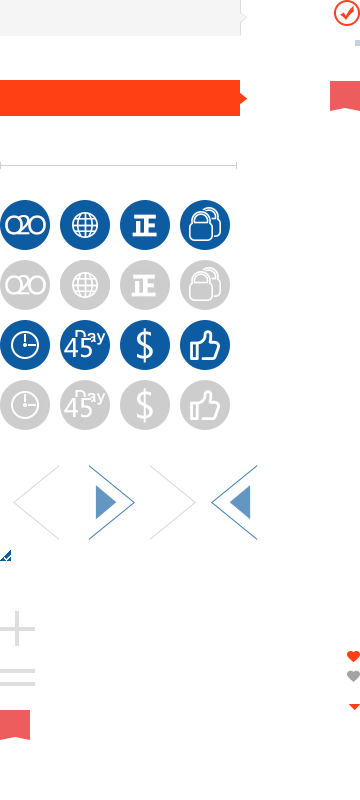
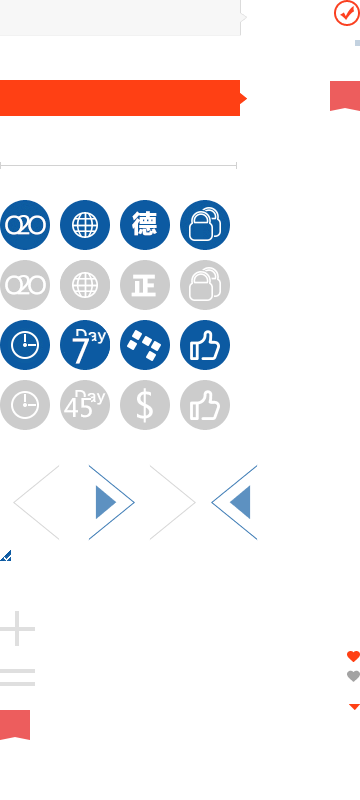
some change

Changed region(s): [[0.1833, 0.4062, 0.3056, 0.4688], [0.3667, 0.25, 0.4583, 0.3125], [0.3361, 0.4062, 0.4583, 0.4688]]

diff --git a/themes/hh/images/css/all.css b/themes/hh/images/css/all.css
@@ -3,7 +3,7 @@ a,:hover{-webkit-transition:all ease 0.2s;-moz-transition:all ease 0.2s;transiti
 body{font-family:microsoft Yahei,"黑体",arial!important;overflow-x: hidden;}
 /*header */
 #gallery .f-icon{font-family:microsoft Yahei,"黑体",arial;}
-#header{height: 80px;padding-top: 20px;overflow: hidden;}
+#header{overflow: hidden;}
 .price{color:#ff4014;}
 .center{width: 1200px;margin: 0 auto;}
 #header .hd-lf{float: left;width: 400px; margin-top:10px;}
@@ -12,12 +12,14 @@ body{font-family:microsoft Yahei,"黑体",arial!important;overflow-x: hidden;}
 #header .hd-rg select{border: none; color: #0d5ba1;/*color: #848484;*/font-weight: bold;margin-right: 100px;}
 #header .hd-rg a{margin-right: 5px;}
 #header .hd-rg input{margin-top: 5px;outline:none;}
-#header .hd-rg input[type=text]{height: 28px;height:26px\9;width: 216px;border: 1px solid #DBDBDB;float: left;_display:inline;}
+#header .hd-rg input[type=text]{height: 28px;height:26px\9;width: 216px;border: 1px solid #DBDBDB;float: left;_display:inline;padding: 0 5px;}
 #header .btn-search{background: #0D5BA1;color: #ffffff;height:30px;width: 60px;margin-top: 5px;}
 #header .hd-rg .register a{color:#848484;}
 #header .hd-rg input[type=submit]{color: #fff;left: -10px;width: 60px;height: 30px;border: none;cursor: pointer;position: relative;background: #0D5BA1;}
 #header .signin{width:auto;background: none;border:none;margin:0;}
 #header .signup{border:none;}
+.Links{border-bottom: 1px solid #dddddd;margin:5px 0 10px 0;}
+.Links li{float: left;_display:inline;width: 80px;height: 40px;overflow:hidden;margin-right: 10px;}
 /* nav */
 #nav{height: 34px;padding-top: 20px;background: #F5F5F5;margin-bottom: 6px;border-top: 1px solid #DBDBDB;border-bottom: 2px solid #0D5BA1;}
 #nav ul li{float: left;padding: 0 25px;font-size: 14px;line-height: 1;position: relative;border-right: 1px solid #dbdbdb;}
@@ -206,7 +208,7 @@ body{font-family:microsoft Yahei,"黑体",arial!important;overflow-x: hidden;}
 #customized .main-scale .main-choice .choice-item .angle-info span{color: #898989;margin-right: 30px;display: inline-block;}
 #customized .main-scale .main-info .info-detail{height: 310px;}
 /*main-else*/
-#customized .main-else .main-choice .item-match .bd{padding:15px;height:512px;background: #fff;overflow-y: auto;}
+#customized .main-else .main-choice .item-match .bd{padding:15px;background: #fff;overflow-y: auto;}
 #customized .main-else .main-choice .item-match .bd .match-a,#customized .main-else .main-choice .item-match .bd .match-b{height:220px;padding:0 15px;overflow: hidden;}
 #customized .main-else .main-choice .item-match .bd .match-a{border-bottom:1px solid #f1f1f1;margin-bottom:15px;}
 #customized .main-else .main-choice .item-match .bd .match-b{/*padding-top:15px;*/}
@@ -217,6 +219,7 @@ body{font-family:microsoft Yahei,"黑体",arial!important;overflow-x: hidden;}
 #customized .main-else .main-choice .item-match .bd .match-info p{max-height:125px;overflow: hidden;color: #666666;}
 #customized .main-else .main-choice .item-match .bd .match-btn{margin-top:15px;}
 #customized .main-else .main-choice .item-match .bd .match-btn button{color:#fff;width:128px;height:35px;border:none;font-size:14px;border-radius: 3px;background:#cccccc;}
+#customized .main-else .main-choice .item-match .bd .match-btn button:hover{background: #dddddd;}
 #customized .main-else .main-choice .item-match .bd .match-btn.active button{background:#FF4014;}
 #customized .s-price::before{content:"￥"}
 #customized .gl-price{height:32px; line-height:32px; color:#ffffff; font-size:14px; padding-left:20px; font-weight:bold; background-color:#000000; opacity:.5;position: absolute;left: 0;right: 0;bottom: 0;}
@@ -348,7 +351,7 @@ body{font-family:microsoft Yahei,"黑体",arial!important;overflow-x: hidden;}
 #footer .back_to_top:hover{opacity: 0.8;}
 #footer .center{padding:0 100px;width:1000px;}
 #footer .icons{overflow: hidden;margin-bottom: 20px}
-#footer .icons ul li{float: left;margin-right: 29px;padding: 20px 0;width: 96px;height: 90px;text-align: center}
+#footer .icons ul li{float: left;margin-right: 29px;padding: 20px 0;width:106px;height: 90px;text-align: center}
 #footer .icons ul li.o2o{width: 125px;}
 #footer .icons ul li i{display: block;margin: 0 auto;width: 50px;height: 50px;background: url(../img/icons.png) no-repeat 0 -260px}
 #footer .icons ul li i{background-position: 0 -200px;}
@@ -476,10 +479,12 @@ body{font-family:microsoft Yahei,"黑体",arial!important;overflow-x: hidden;}
 #main #gallery_filter .filter-promotion .filter-item{display: inline-block;text-align: center;padding-left:15px;border:1px solid #ccc;}
 #main #gallery_filter .filter-promotion .filter-promotion-label,#main #gallery_filter #filter_selected dt,#main #gallery_filter .filter-lists-container .filter-entries-label{font-size:14px;text-align: left;font-weight: bold;color: #555555;}
 #main #gallery_filter .filter-promotion .filter-item .action-select-unlimit{padding-right:15px;}
-#main .gallery-sortbar{background: #f5f5f5;}
+#main .gallery-sortbar{background: #f5f5f5;height: 30px;line-height: 30px;}
+.gallery-sortbar .ml15.mr15{display: none;}
+.gallery-sortbar .gallery-sort,.gallery-sortbar .gallery-showmode,.gallery-sortbar .mini-pageview{padding: 0 0 0 10px;}
 #main .gallery-sortbar .gallery-sort a{border:none;border-right:1px solid #eee;background: none;}
 #main .gallery-sortbar .gallery-sort em{border:none;}
-#main .gallery-sortbar .mini-pageview{font-size: 16px;border-left: 1px solid #dddddd;height: 28px;}
+#main .gallery-sortbar .mini-pageview{font-size: 16px;border-left: 1px solid #dddddd;height:30px;line-height: 30px;}
 #main .gallery-sortbar .mini-pageview .flip{border:none;background: none}
 #main .gallery-grid .goods-item{position: relative;margin:0 0 13px 13px;border:1px solid #dddddd;padding: 0 0 10px 0;width: 300px!important;}
 #main .gallery-grid .goods-item:hover{border-color:#cccccc;box-shadow: 0 0 5px #ccc;}
@@ -537,14 +542,17 @@ a.btn-addfav i,a.btn-faved i{display:none;}
 /*hotsale*/
 .product_hotsale .product img,.charts-content img{width: 100%;max-height:200px;}
 .product_hotsale .product{border: 1px solid #dddddd;padding: 5px;}
-.product_hotsale li,.charts-content .product-item{border: 1px solid #dddddd;margin-bottom: 10px;position: relative;}
-.product_hotsale .pro-name{position: relative;height: 30px;line-height: 30px;background: #333333;background: rgba(0,0,0,0.6);color: #ffffff;padding: 0 5px;margin-top: -32px;display: block;}
-.product_hotsale .price-wrap,.charts-content .price-wrap{padding: 10px 5px;font-size: 14px;color: #666666;}
+.product_hotsale li,.charts-content .product-item{margin-bottom: 10px;position: relative;overflow: hidden;border-bottom: 1px solid #dddddd;}
+.product_hotsale li:last-child,.charts-content .product-item:last-child{border-bottom: none;}
+.sales-charts li .product-img,.product_hotsale li .product-img{float: left;_display:inline;width: 100px;display: block;}
+.sales-charts .product-info,.product_hotsale .product-info{margin-left: 112px;}
+.product_hotsale .price-wrap,.charts-content .price-wrap{padding: 10px 5px 0 0;font-size: 14px;color: #666666;}
+.charts-content .price-wrap .saled{color: #ff4014;}
 .product_hotsale .markprice{margin-right: 5px;}
 .charts-content em,.charts-content a.pro-name:hover{color: #ff4014;}
-.charts-content a.pro-name{font-size: 14px;padding: 0 5px;height: 30px;line-height: 30px;overflow: hidden;display: block;}
-.charts-content .product-price{font-weight: bold;}
-.product-item .tag{position: absolute;width: 30px;height: 30px;line-height: 30px;text-align: center;color: #ffffff;top:0;left: 0;background: url(../img/icons.png) -330px -81px;}
+.charts-content a.pro-name{font-size: 14px;padding: 0 5px 0 0;line-height: 18px;overflow: hidden;display: block;max-height: 36px;}
+.charts-content .product-price,.product_hotsale .price-wrap span{display: block;}
+.product-item .tag{display:none;position: absolute;width: 30px;height: 30px;line-height: 30px;text-align: center;color: #ffffff;top:0;left: 0;background: url(../img/icons.png) -330px -81px;}
 /*==product==*/
 #main .page-maincontent{margin-bottom:10px;}
 #main #product_album .product-album-preview{border:none;}

diff --git a/app/b2c/view/site/dingzhi/step-5.html b/app/b2c/view/site/dingzhi/step-5.html
@@ -43,11 +43,23 @@
 
                         </ul>
                     </div>
+                      <{if $data.spec.8}>
                     <div class="base-b">
                         <span>扶手样式</span>
+
                         <ul>
                         <{foreach from=$data.spec.8.spec_value item=item key=key}>
                             <li class="c-item" data-title="<{$item.spec_value_name}>" data-s-id="<{$item.spec_value_id}>"  style="display:none;">
+                            <img src="<{$item.spec_image}>" alt=""> </li>
+                        <{/foreach}>
+                        </ul>
+                    </div>
+                    <{/if}>
+                    <div class="base-c">
+                        <span>转角方向</span>
+                        <ul >
+                        <{foreach from=$data.spec.17.spec_value item=item key=key}>
+                        <li class="c-item" data-title="<{$item.spec_value_name}>" data-s-id="<{$item.spec_value_id}>" style="display:none;">
                             <img src="<{$item.spec_image}>" alt=""> </li>
                         <{/foreach}>
                         </ul>
@@ -128,7 +140,7 @@
             <div class="bd spec-text-main">
                 <div class="inner">
                     <div class="part1-a">
-                        <span>总宽</span>
+                        <span>总尺寸</span>
                         <ul>
                          <{foreach from=$data.spec.14.spec_value item=item key=key}>
                             <li class="c-item" data-title="<{$item.spec_value_name}>" data-s-id="<{$item.spec_value_id}>"  style="display:none;">

diff --git a/themes/hh/block/footer.html b/themes/hh/block/footer.html
@@ -19,7 +19,7 @@
 				<li class="quality">
 					<i></i>
 					<span>100%</span>
-					<span class="sm">正品保证</span>
+					<span class="sm">德国品质</span>
 				</li>
 				<li class="check">
 					<i></i>
@@ -28,24 +28,24 @@
 				</li>
 				<li class="time">
 					<i></i>
-					<span>限时达</span>
-					<span class="sm">最快7天到家</span>
+					<span>日日顺物流</span>
+					<span class="sm">最快5天到家</span>
 				</li>
 				<li class="return">
 					<i></i>
-					<span>45天</span>
+					<span>7天</span>
 					<span class="sm">无理由退换货</span>
 				</li>
 				<li class="change">
 					<i></i>
-					<span>贵就赔</span>
-					<span class="sm">价格保护</span>
+					<span>个性DIY</span>
+					<span class="sm">全品类定制</span>
 				</li>
-				<li class="evaluate">
+				<!-- <li class="evaluate">
 					<i></i>
 					<span>万千口碑</span>
 					<span class="sm">万千家庭的选择</span>
-				</li>
+				</li> -->
 			</ul>
 		</div>
 		<!-- icons end -->
@@ -81,15 +81,16 @@
 </ul>
  <script>
     var lk = $$(".side-link");
+    var toph = ($("header").getHeight())+($("nav").getHeight())+5+"px";
     window.addEvent('domready',function(){
         var sw = $(window).getWidth();
         var offwidth = (sw - 1200)/2;
         var pst = (1200 + offwidth + 5)+"px";
-        lk.setStyles({'left':pst,'top':163})
+        lk.setStyles({'left':pst,'top':toph})
     })
     window.addEvent('scroll',function(){
     	var offtop = $(document).getScrollTop();
-    	(offtop>157)?lk.tween('top',2):lk.tween('top',163);
+    	(offtop>157)?lk.tween('top',2):lk.tween('top',toph);
     })
 </script>	
  <{footer}>

diff --git a/themes/hh/widgets/sales_rank/default.html b/themes/hh/widgets/sales_rank/default.html
@@ -6,15 +6,15 @@
         <{foreach from=$data.goodsRows item=row key=gid name=goodsrow}>
         <{assign var=pickey  value=$setting.gpic_size|default:'goodsPicS' }>
         <li>
-            <div class="img">
                 <a href="<{$row.goodsLink}>" class="">
-                    <img src="<{$row[$pickey]}>" alt="<{$row.goodsName}>" class=""/>
+                    <img src="<{$row[$pickey]}>" alt="<{$row.goodsName}>" class="product-img"/>
                 </a>
-            </div>
-                <a href="<{$row.goodsLink}>" class="pro-name"><{$row.goodsName}></a>
-                <div class="price-wrap clearfix">   
-                    <span class="markprice"><em>原价:</em><{$row.goodsMarketPrice|cur}></span>
-                    <span class="price"><em>销售价:</em><{$row.goodsSalePrice|cur}></span>
+                <div class="product-info">
+                    <a href="<{$row.goodsLink}>" class="pro-name"><{$row.goodsName}></a>   
+                    <div class="price-wrap clearfix">
+                        <span class="markprice"><em>原价:</em><{$row.goodsMarketPrice|cur}></span>
+                        <span class="price"><em>销售价:</em><{$row.goodsSalePrice|cur}></span>
+                     </div>
                  </div>
         </li>
         <{/foreach}>

diff --git a/app/b2c/view/site/product/prodcut_bottom.html b/app/b2c/view/site/product/prodcut_bottom.html
@@ -22,12 +22,12 @@
 	</div>
 	<{/if}>
 
-	<div id="product_exhibition" class="product-section product-exhibition" >
+	<!-- <div id="product_exhibition" class="product-section product-exhibition" >
         <div style="text-align:center;">
             <img src="<{$page_product_basic.exhibition|default:$imageDefault.S.default_image|storager}>" />
         </div>
 		<h2 class="tags-hd"><a href="#exhibition"><{t}>上海展厅<{/t}></a></h2>
-	</div>
+	</div> -->
 
 	<{if $setting.selllog == 'true'}>
 	<div id="product_saleslog" class="product-section product-saleslog action-content-list" data-sync-type="product_saleslog" style="display:none;">
@@ -761,6 +761,7 @@ withBrowserStore(function(browserStore){
             'goodsName':'<{$page_product_basic.title|replace:"'":"\'"}>',
             'goodsImg':'<{$page_product_basic.image_default_id ? $page_product_basic.image_default_id : $defaultImage|storager:"s"}>',
             'price':'<{$page_product_basic.price|cur_odr}>',
+            'mktprice':'<{$page_product_basic.mktprice|cur_odr}>',
             'viewTime':+new Date()
         };
         if(history.length) {

diff --git a/themes/hh/widgets/hst/default.html b/themes/hh/widgets/hst/default.html
@@ -25,7 +25,7 @@
             var template = '<li class="product-item {last}"><div class="img">';
                 template+= '<a href="<{link app=b2c ctl='site_product' act='index' arg0='{goodsId}'}>" target="_blank" title="{goodsName}" inner_img="{goodsImg}" gid="{goodsId}" class="product-img">'.replace('index-','');
                 template+= '</a></div><div class="info">';
-                template+='<span class="name"><a href="<{link app=b2c ctl='site_product' act='index' arg0='{goodsId}'}>">{goodsName}</a></span><div class="price-wrap"><span class="markprice">原价:{price}</span><span class="price">销售价:{price}</span></div></div></li>'.replace('index-','');
+                template+='<span class="name"><a href="<{link app=b2c ctl='site_product' act='index' arg0='{goodsId}'}>">{goodsName}</a></span><div class="price-wrap"><span class="markprice">原价:{price}</span><span class="price">销售价:{mktprice}</span></div></div></li>'.replace('index-','');
 
             var max=Math.min(v.length,<{$setting.max|default:3}>);
 

diff --git a/app/b2c/view/site/dingzhi/step-3.html b/app/b2c/view/site/dingzhi/step-3.html
@@ -57,7 +57,13 @@
                         <div class="info-size">
                             <div class="size-tit tit"><h3>总尺寸</h3> </div>
                             <div class="size-dat">
-                                <span>总宽度：<i class="ct-t"> 1500</i>mm</span>
+                             <{foreach from=$data.spec.14.spec_value item=item key=key name=spec}>
+                        <{if $item.defalut==true}>
+                      
+                          <span>总宽度：<i class="ct-t"> <{$item.spec_value_name}></i>mm</span>
+                        <{/if}>
+                    <{/foreach}>
+                              
                                 <span>总深度: <i class="ct-s spec-13">1500</i>mm</span>
                                 <span>总高度：<i class="spec-12">2400</i>mm</span>
                             </div>

diff --git a/themes/hh/widgets/cart/_config.html b/themes/hh/widgets/cart/_config.html
@@ -1,4 +1,4 @@
 <div class="p10" style="padding-left:30%">
   <input type="radio" id="wg_show_cur" value=1 name="cart_show_type" <{if $setting.cart_show_type==1}>checked="checked"<{/if}> /><label for="wg_show_cur"><{t app="b2c"}>显示商品总数量<{/t}></label>
-  <input type="radio" id="wg_show_cur" value=2 name="cart_show_type" <{if $setting.cart_show_type!=1}>checked="checked"<{/if}> /><label for="wg_show_cur"><{t app="b2c"}>显示商品种类<{/t}></label><br />
+ <!--  <input type="radio" id="wg_show_cur" value=2 name="cart_show_type" <{if $setting.cart_show_type!=1}>checked="checked"<{/if}> /><label for="wg_show_cur"><{t app="b2c"}>显示商品种类<{/t}></label><br /> -->
 </div>

diff --git a/app/b2c/view/site/product/info/props.html b/app/b2c/view/site/product/info/props.html
@@ -1,5 +1,5 @@
 <div class="product-params">
-  <table width="100%">
+  <table>
     <tbody>
       <tr>
         <{if $setting.goodsbn == 'true'}>
@@ -30,7 +30,7 @@
       <{/foreach}>
       <{/if}>
 <{if $setting.acomment.switch.discuss == 'on' && $setting.acomment.point_status == 'on'}>
-      <tr>
+      <tr style="display:none;">
       <td class="label"><{t}>商品评分<{/t}>：</td>
       <td class="v"  width="55%">
         <span class="detail">
@@ -45,8 +45,4 @@
 
     </tbody>
   </table>
-  <div class="product-booktel">
-    <span>订购电话:</span>
-    <span>400-400-400</span>
-  </div>
 </div>

diff --git a/app/b2c/view/site/product/index.html b/app/b2c/view/site/product/index.html
@@ -778,6 +778,7 @@ withBrowserStore(function(browserStore){
             'goodsName':'<{$page_product_basic.title|replace:"'":"\'"}>',
             'goodsImg':'<{$page_product_basic.image_default_id ? $page_product_basic.image_default_id : $defaultImage|storager:"s"}>',
             'price':'<{$page_product_basic.price|cur_odr}>',
+            'mktprice':'<{$page_product_basic.mktprice|cur_odr}>',
             'viewTime':+new Date()
         };
         if(history.length) {

diff --git a/themes/hh/block/header.html b/themes/hh/block/header.html
@@ -1,6 +1,13 @@
 <!-- header start-->
 <div id="header">
 	<div class="center">
+        <ul class="Links clearfix">
+            <li><{widgets id="links1"}></li>
+            <li><{widgets id="links2"}></li>
+            <li><{widgets id="links3"}></li>
+            <li><{widgets id="links4"}></li>
+            <li><{widgets id="links5"}></li>
+        </ul>
 		<div class="hd-lf">
 			<!--<h1>其点</h1>-->
 			<{widgets id="logo"}>

diff --git a/app/b2c/view/site/dingzhi/info.html b/app/b2c/view/site/dingzhi/info.html
@@ -1,7 +1,7 @@
 <div class="info-price com info">
     <div class="tit">
         <span class="nam">价格：</span>
-        <span class="pri s-price" data-price="<{$data.price}>"><{$data.price}></span>
+        <span class="pri s-price" data-price="<{$data.price|cur_odr}>"><{$data.price|cur_odr}></span>
     </div>
     <div class="line"></div>
     <div class="cont">
